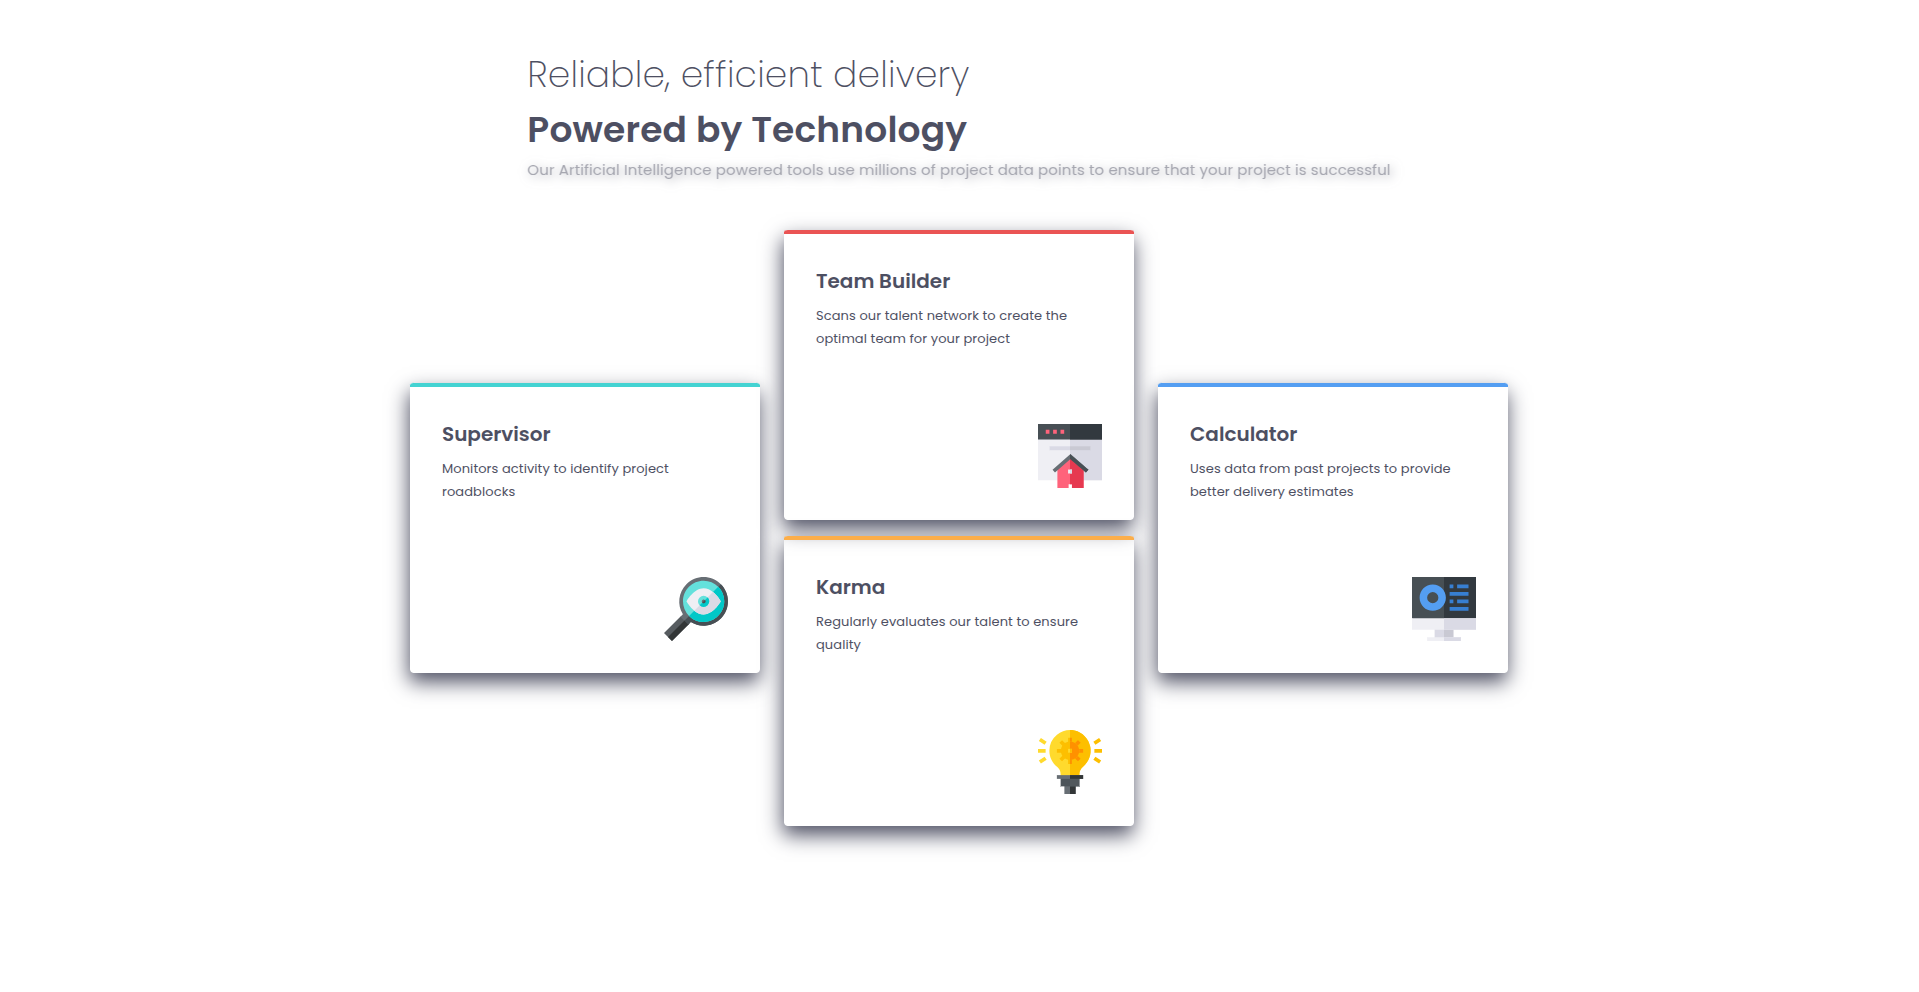
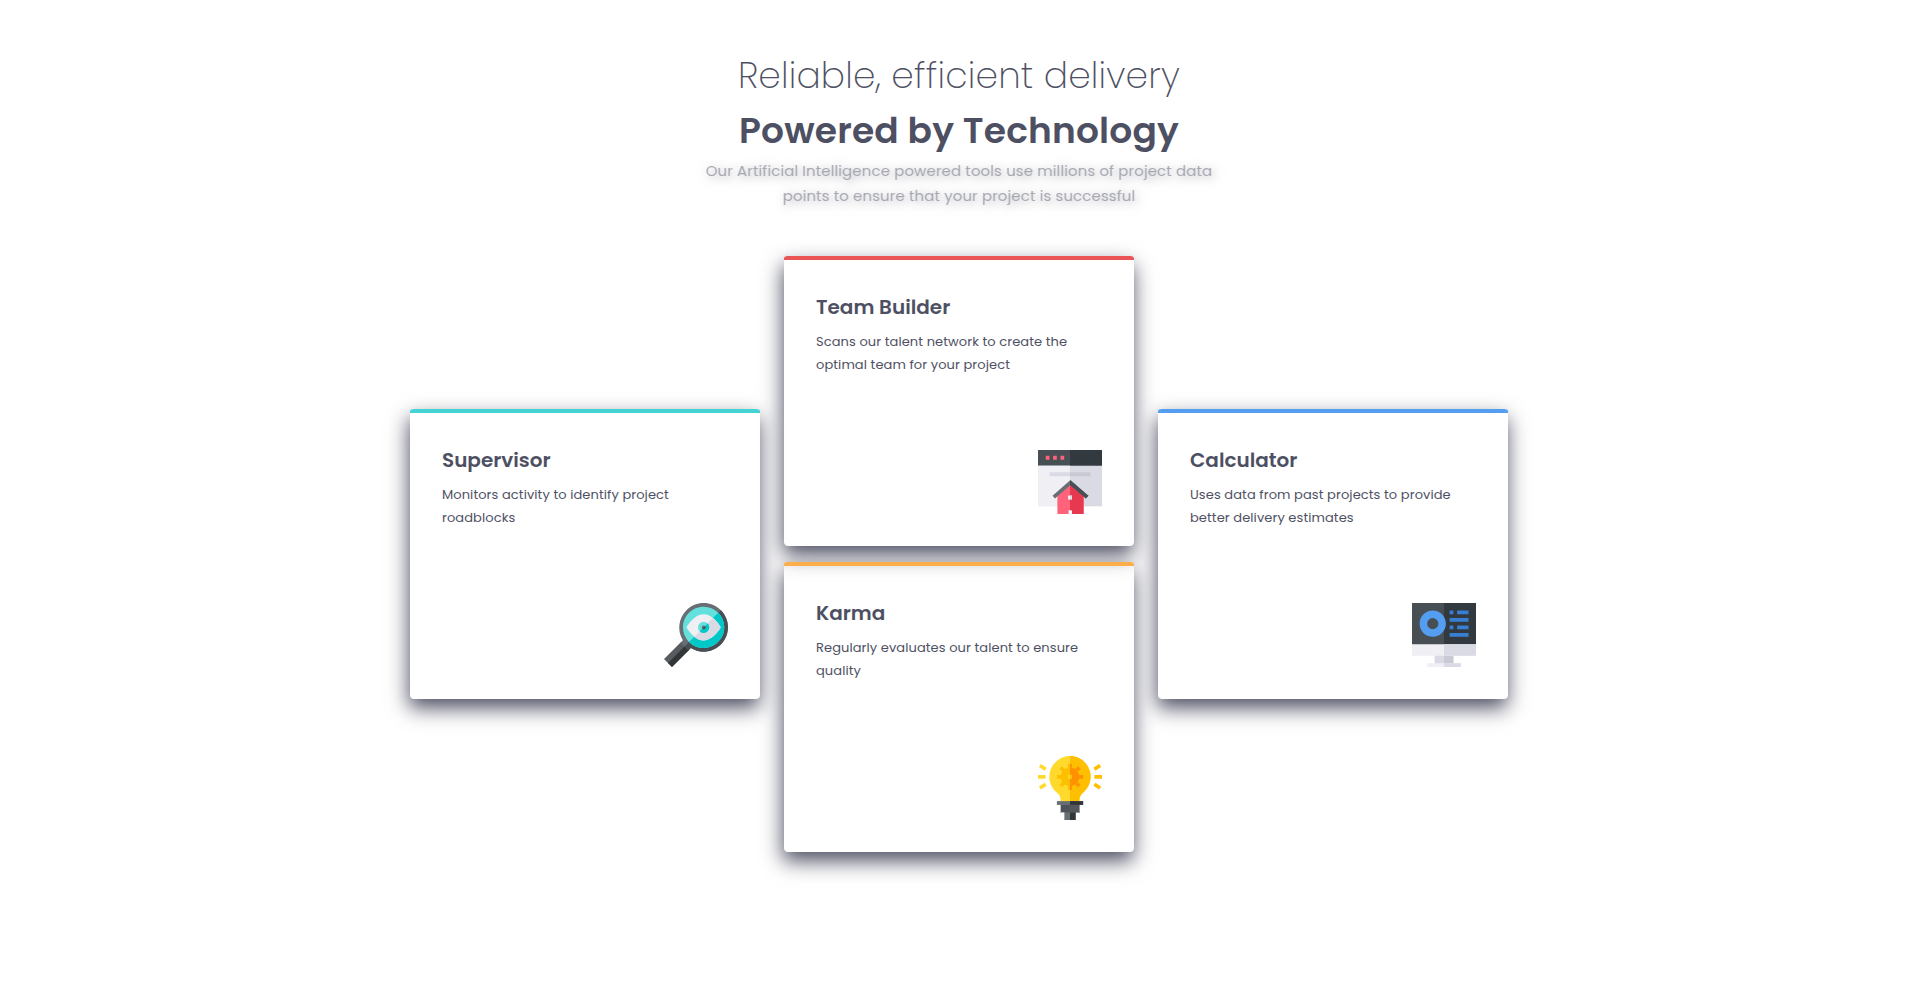
fix(header): header width

diff --git a/style.css b/style.css
@@ -114,6 +114,9 @@ section{
 @media (min-width: 600px){
 
   header{
+    max-width: 540px;
+    text-align: center;
+
     .header__pretitle{
       font-size: 2.4rem;
     }
